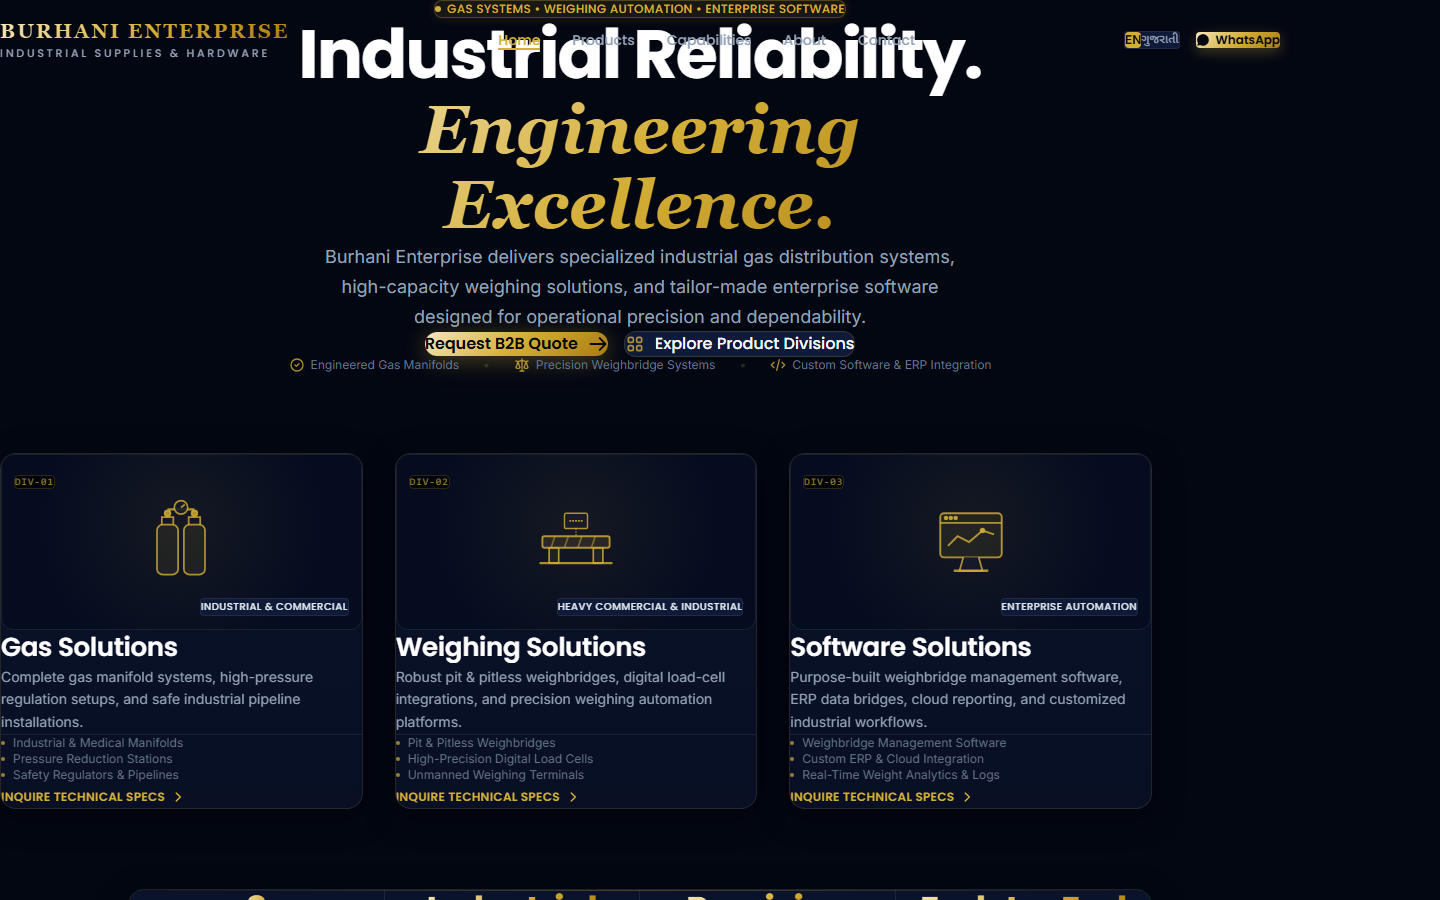
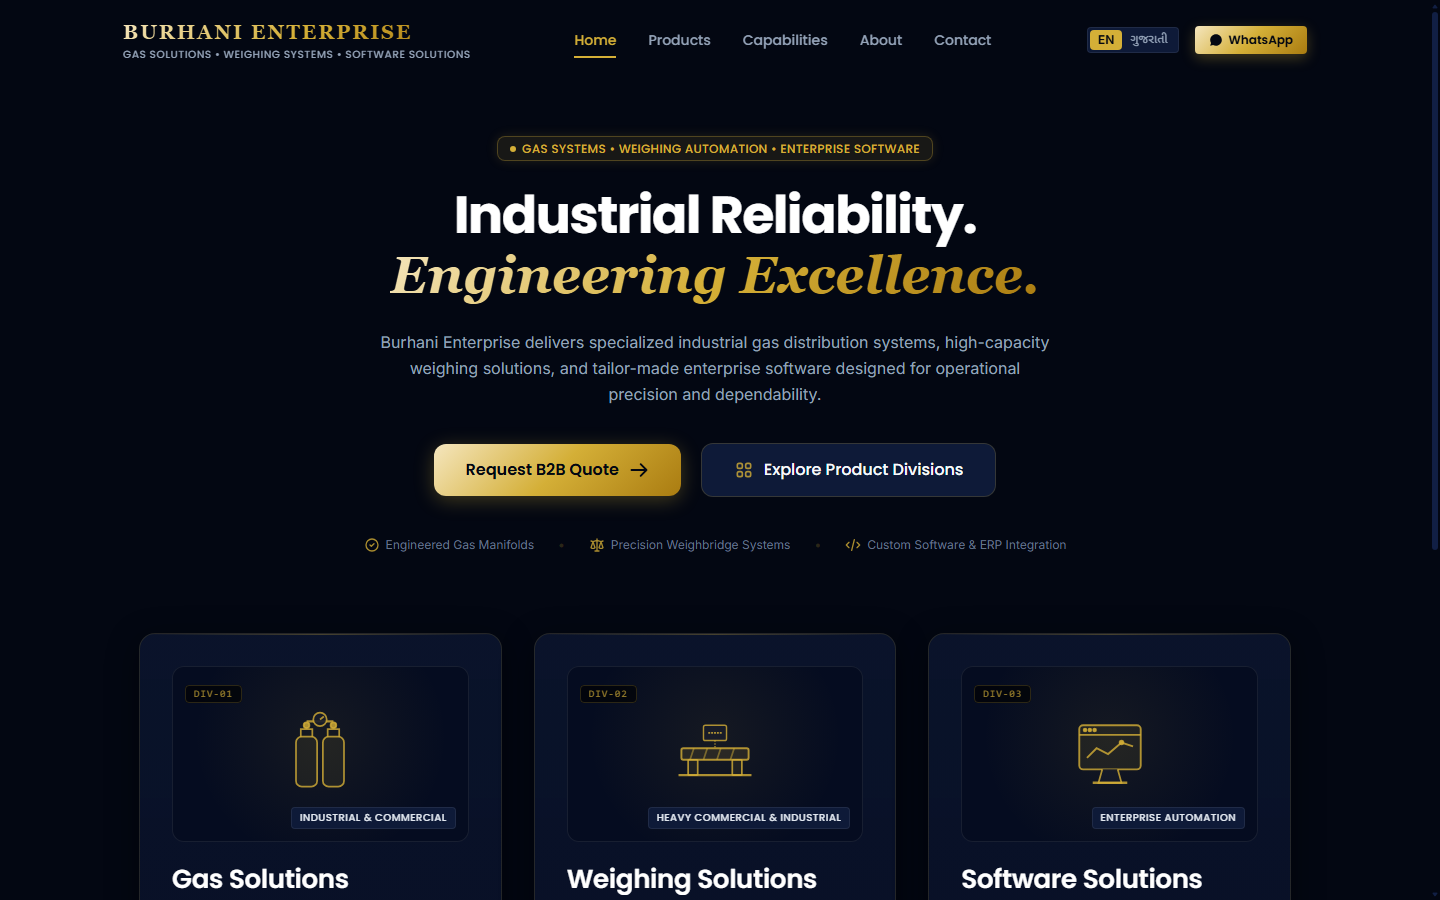
BE-005.2: Polish live production hero and navigation

diff --git a/src/styles/theme.css b/src/styles/theme.css
@@ -53,6 +53,28 @@
      ------------------------------------------------------------------------ */
   --header-height: 5rem;          /* 80px */
   --header-height-mobile: 4.25rem; /* 68px */
+}
+
+/* Header & Offset Utilities */
+.header-height {
+  height: var(--header-height-mobile);
+}
+@media (min-width: 1024px) {
+  .header-height {
+    height: var(--header-height);
+  }
+}
+
+.offset-header {
+  padding-top: var(--header-height-mobile);
+}
+@media (min-width: 1024px) {
+  .offset-header {
+    padding-top: var(--header-height);
+  }
+}
+
+:root {
 
   /* ------------------------------------------------------------------------
      Radius Scale

diff --git a/src/styles/typography.css b/src/styles/typography.css
@@ -16,9 +16,9 @@
   /* ------------------------------------------------------------------------
      Fluid Typography Scale (Clamp-based)
      ------------------------------------------------------------------------ */
-  /* Display: 44px on mobile -> 68px on desktop */
-  --text-display: clamp(2.75rem, 5vw + 1rem, 4.25rem);
-  --leading-display: 1.1;
+  /* Display: 36px on mobile -> 54px on desktop */
+  --text-display: clamp(2.25rem, 3.5vw + 0.75rem, 3.375rem);
+  --leading-display: 1.18;
 
   /* H1: 32px on mobile -> 48px on desktop */
   --text-h1: clamp(2rem, 3.5vw + 0.75rem, 3rem);

diff --git a/src/data/business.ts b/src/data/business.ts
@@ -26,8 +26,8 @@ const whatsappDefaultMessage =
 
 export const businessProfile: BusinessProfile = {
   name: 'Burhani Enterprise',
-  tagline: 'Gas, Weighing & Enterprise Software Solutions',
-  subtitle: 'Gas • Weighing • Software',
+  tagline: 'Gas Solutions, Weighing Systems & Software',
+  subtitle: 'Gas Solutions • Weighing Systems • Software Solutions',
   contact: {
     whatsapp: {
       number: `+${whatsappNumber}`,

diff --git a/src/styles/global.css b/src/styles/global.css
@@ -9,12 +9,12 @@
 /* --------------------------------------------------------------------------
    CSS Reset & Base Rules
    -------------------------------------------------------------------------- */
-*,
-*::before,
-*::after {
-  box-sizing: border-box;
-  margin: 0;
-  padding: 0;
+@layer base {
+  *,
+  *::before,
+  *::after {
+    box-sizing: border-box;
+  }
 }
 
 html {

diff --git a/docs/CHANGELOG.md b/docs/CHANGELOG.md
@@ -3,6 +3,19 @@
 All notable changes to the **Burhani Enterprise Website** will be documented in this file.
 The project adheres to sprint-based versioning aligned with project tickets.
 
+## [Sprint BE-005.2] — 2026-09-08
+
+### Changed
+- **Header Offset & Overlap Resolution:** Resolved the fixed navbar and hero content overlap by wrapping CSS reset rules in `@layer base` (preventing unlayered overrides of padding utilities), providing explicit `.offset-header` (`padding-top: var(--header-height)`) and `.header-height` (`height: var(--header-height)`) classes, and adjusting `Hero.astro` to `justify-start`.
+- **Fluid Typography Refinement:** Scaled down `HeroContent.astro` headline to `text-2xl sm:text-3xl md:text-4xl lg:text-[3.25rem]` with relaxed line-height (`leading-[1.22] sm:leading-[1.18] lg:leading-[1.15]`) and refined `--text-display` token.
+- **Brand Wordmark Tagline Update:** Updated wordmark subtitle to `"Gas Solutions • Weighing Systems • Software Solutions"` in `BrandWordmark.astro`, `Navbar.astro`, and `business.ts` with responsive mobile truncation to prevent horizontal overflow on 320px screens.
+- **Navbar Padding Inset:** Increased navbar container horizontal padding to `px-4 sm:px-8 lg:px-12` for balanced breathing room.
+- **CTA Sizing & Spacing:** Improved spacing and responsive sizing of dual CTA buttons in `HeroCTA.astro` (`gap-3.5 sm:gap-5`, `px-5 py-3 sm:px-8 sm:py-3.5`) with gold ambient box shadows.
+- **BaseLayout Metadata:** Updated page title to `Burhani Enterprise — Gas Solutions, Weighing Systems & Software` and description to `Burhani Enterprise provides gas solutions, weighing systems, weighbridge automation, and software services across Gujarat.` in `BaseLayout.astro` and `index.astro`.
+- **Responsive Captures:** Updated high-resolution screenshots in `docs/screenshots/` across 320, 768, 1024, and 1440 viewports.
+
+---
+
 ## [Sprint BE-005.1] — 2026-09-08
 
 ### Added
